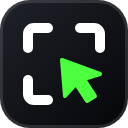
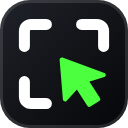
feat: 아이콘 그림 확대, 확장 이름에 버전 표시(사이드바 제목줄), bump 스크립트 (v2.0.7)
Claude-Session: https://claude.ai/code/session_01Nw6RAvx8tthMdhygFvoMqg

diff --git a/src/sidepanel/sidepanel.js b/src/sidepanel/sidepanel.js
@@ -299,8 +299,7 @@ function render() {
       <nav class="pl-tabs pl-tabs--inline" role="tablist">
         ${[['links', '수집 링크', links.length], ['keywords', '키워드', ''], ['watch', '워치리스트', watch.length]].map(([id, l, n]) => `<button type="button" role="tab" class="pl-tab" aria-selected="${S.tab === id}" data-act="tab" data-val="${id}">${l}${n !== '' ? `<span class="pl-tab__count">${n}</span>` : ''}</button>`).join('')}
       </nav>
-      <span class="pl-badge pl-badge--mono pl-u-push" title="버전">v${version()}</span>
-      <button type="button" class="pl-icon-btn pl-icon-btn--sm" data-act="options" aria-label="설정" data-tip="설정" data-tip-pos="below" data-tip-align="end">${icon('sliders')}</button>
+      <button type="button" class="pl-icon-btn pl-icon-btn--sm pl-u-push" data-act="options" aria-label="설정" data-tip="설정" data-tip-pos="below" data-tip-align="end">${icon('sliders')}</button>
     </header>
     ${S.tab === 'links' ? renderLinks() : S.tab === 'keywords' ? renderKeywords() : renderWatch()}`;
   if (refocus === 'memo' || (S.editing && refocus !== 'q')) { const el = app.querySelector('[data-memo-input]'); if (el) { el.focus(); el.setSelectionRange(el.value.length, el.value.length); } }

diff --git a/README.md b/README.md
@@ -2,7 +2,7 @@
 
 드래그 한 번으로 링크를 모으고, 유튜브·틱톡·인스타그램·X·블로그 링크를 카드·표로 정리하는 크리에이터용 크롬 확장 프로그램입니다.
 
-현재 버전: **2.0.0** · 변경 내역은 [CHANGELOG.md](CHANGELOG.md)
+현재 버전: **2.0.7** · 변경 내역은 [CHANGELOG.md](CHANGELOG.md)
 
 ## 설치
 
@@ -47,7 +47,7 @@
 
 ## 새 버전 배포
 
-1. `manifest.json`의 `version`을 올립니다 (예: `2.0.1`).
+1. `bash scripts/bump.sh 2.0.8` 로 버전을 올립니다. (`version`, `version_name`, 이름 `Power Link v2.0.8`을 함께 바꿉니다. 이름은 크롬 사이드바 제목줄에 버전으로 보입니다.)
 2. `CHANGELOG.md` 맨 위에 `## [2.0.1] - 날짜` 항목을 적습니다.
 3. 커밋한 뒤 태그를 만들어 올립니다.
    ```bash

diff --git a/CHANGELOG.md b/CHANGELOG.md
@@ -2,6 +2,13 @@
 
 버전 규칙: `MAJOR.MINOR.PATCH` (manifest.json의 `version`과 git 태그 `v<버전>`을 항상 맞춥니다)
 
+## [2.0.7] - 2026-09-26
+
+### 변경
+- 아이콘 그림을 더 크고 굵게: 16·32px용은 모서리·포인터를 22% 키우고 선을 굵게, 48·128px은 10% 키움
+- 버전을 크롬 사이드바 제목줄에 표시: 확장 이름을 `Power Link v2.0.7`로 변경, 사이드바 줄의 버전 배지는 제거(탭 · 설정만 남음)
+- `scripts/bump.sh <버전>`: 버전·이름을 한 번에 올리는 스크립트, 릴리스 시 이름과 버전이 다르면 실패하도록 검사
+
 ## [2.0.6] - 2026-09-26
 
 ### 변경
